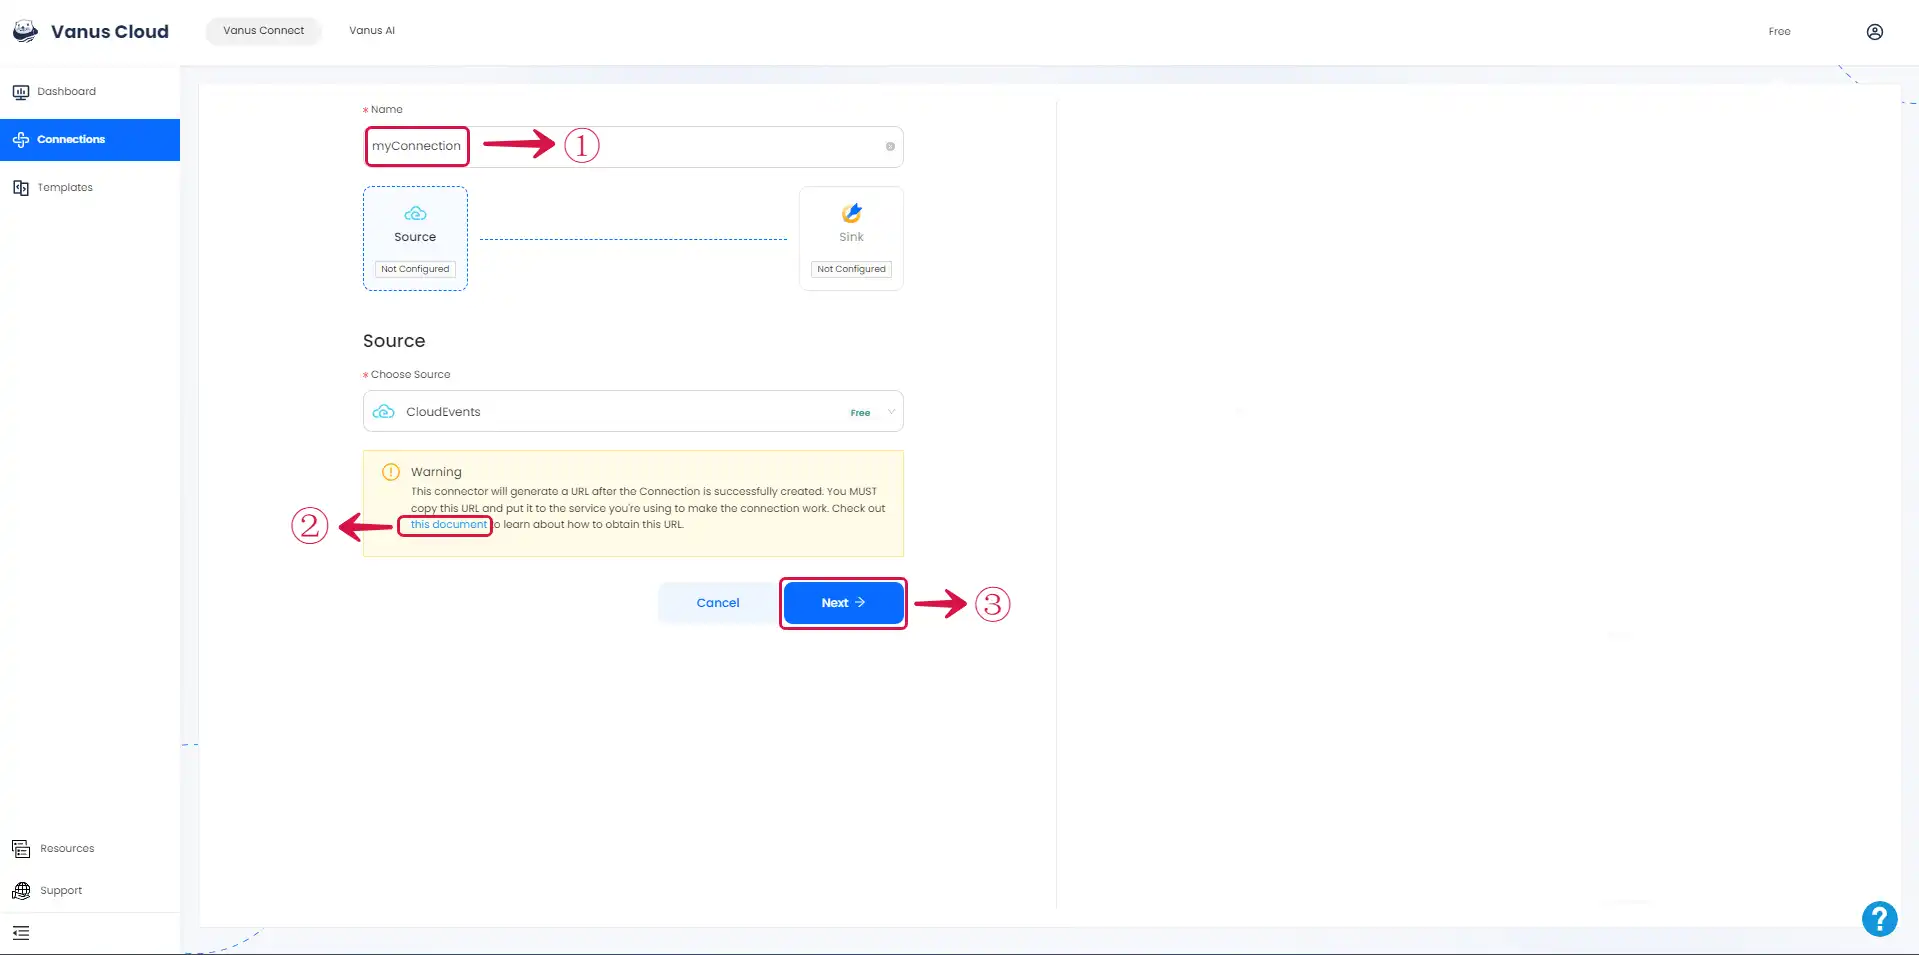
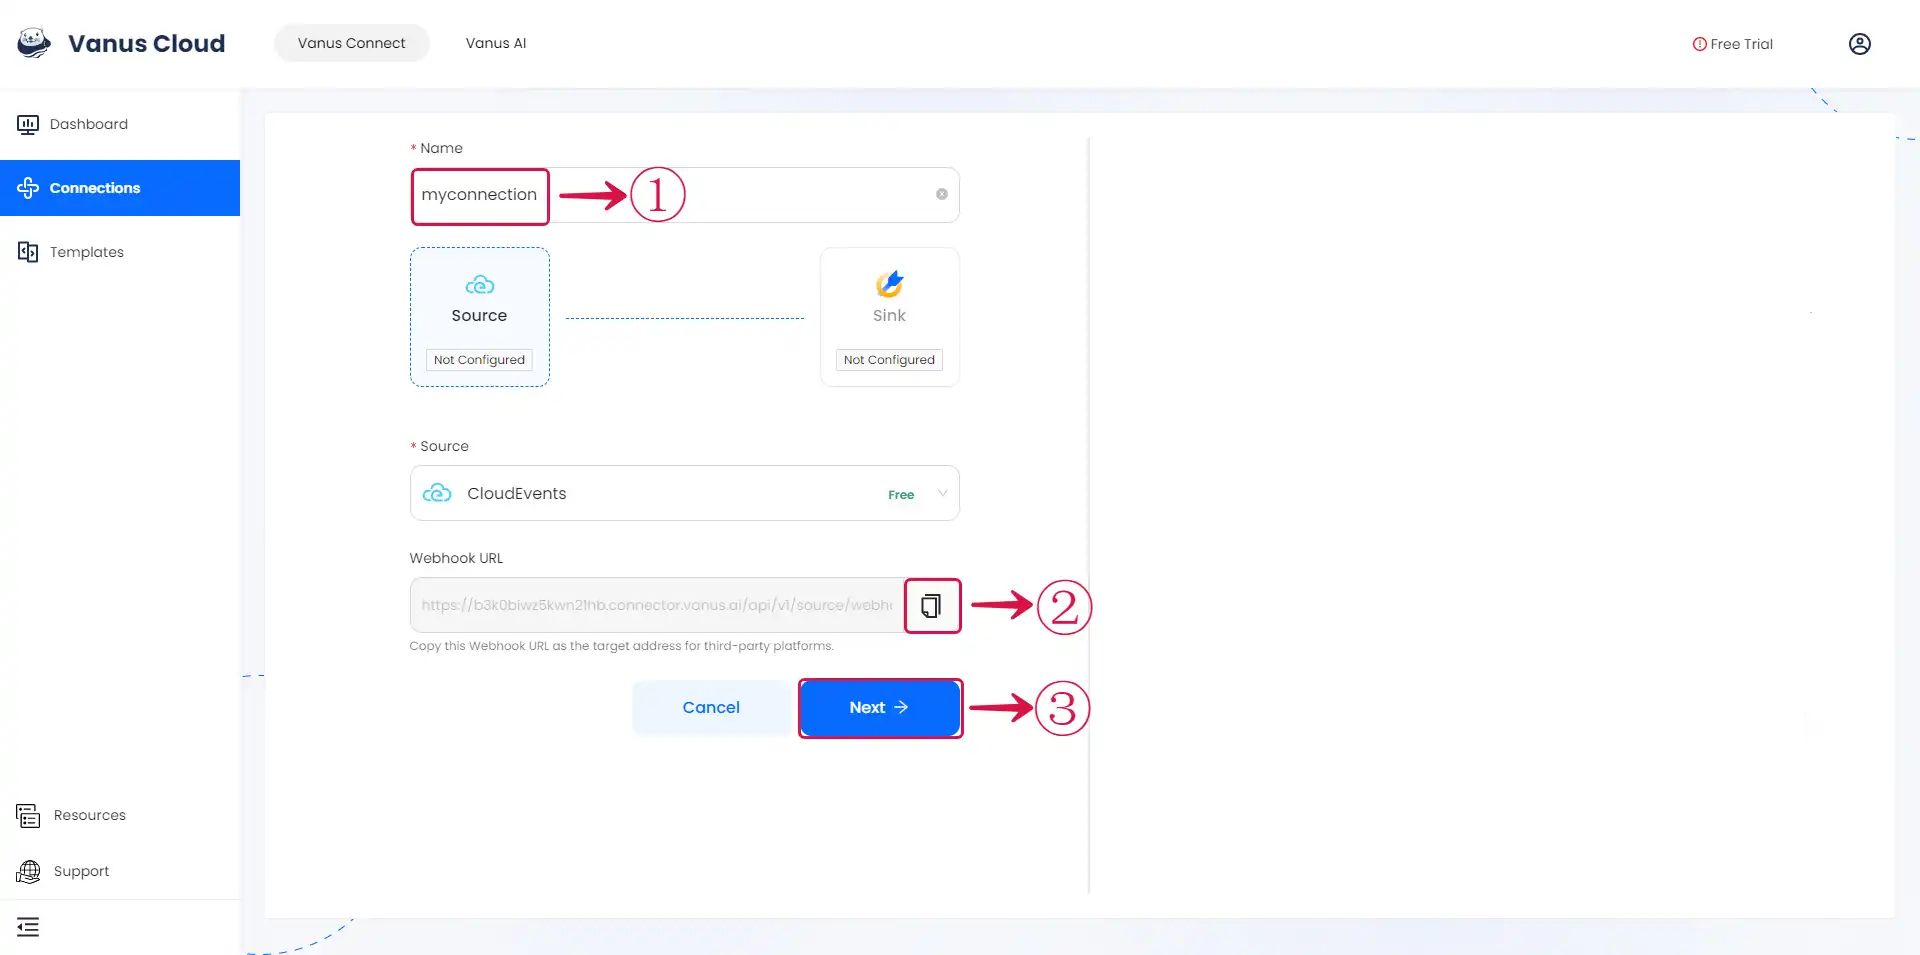
Docs: Update CloudEvents Source

diff --git a/content/vanus-connect/connector-guides/source/cloudevents/setup.md b/content/vanus-connect/connector-guides/source/cloudevents/setup.md
@@ -22,7 +22,7 @@ To set up CloudEvents in Vanus Connect, follow these steps:
 
 - Write a **Name**① for your connection in Vanus Connect. 
 
-- After creating the connection, there are a few more steps. Simply click the **Link**② to open a new page with all the details on how to complete the connection. 
+- Click on the **copy**② icon to copy the Webhook URL. Use the Webhook URL to receive events. 
 
 - Click **Next**③ and continue the configuration.
 

diff --git a/content/cloud-docs/source/cloudevents/setup.md b/content/cloud-docs/source/cloudevents/setup.md
@@ -15,7 +15,7 @@ hide_title: true
 
 - Write a **Name**① for your connection in Vanus Connect. 
 
-- After creating the connection, there are a few more steps. Simply click the **Link**② to open a new page with all the details on how to complete the connection. 
+- Click on the **copy**② icon to copy the Webhook URL. Use the Webhook URL to receive events. 
 
 - Click **Next**③ and continue the configuration.
 
